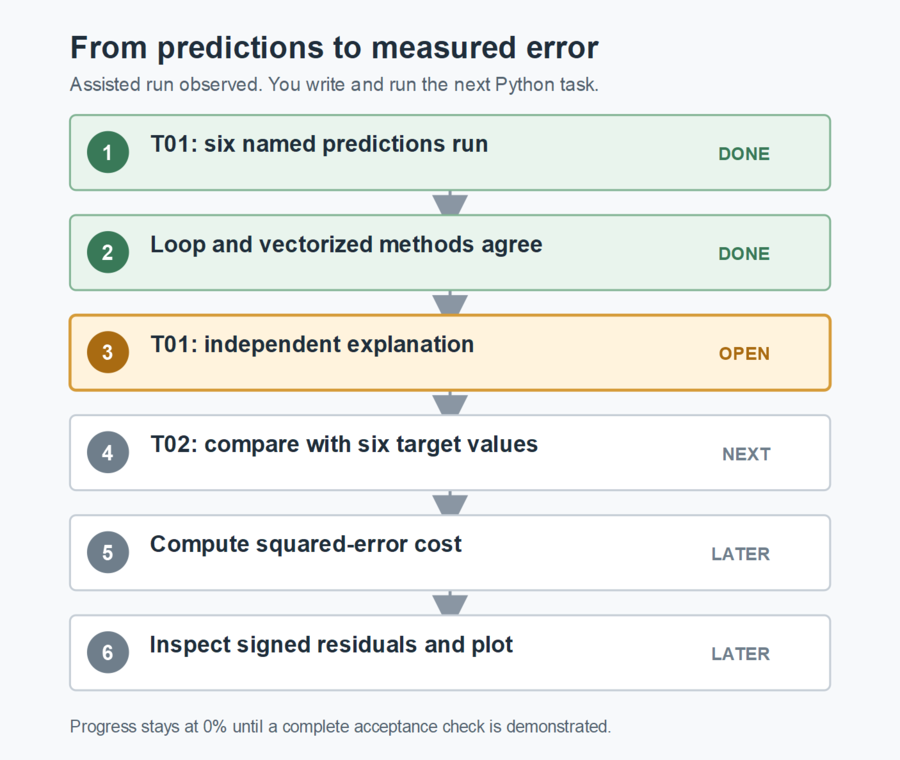
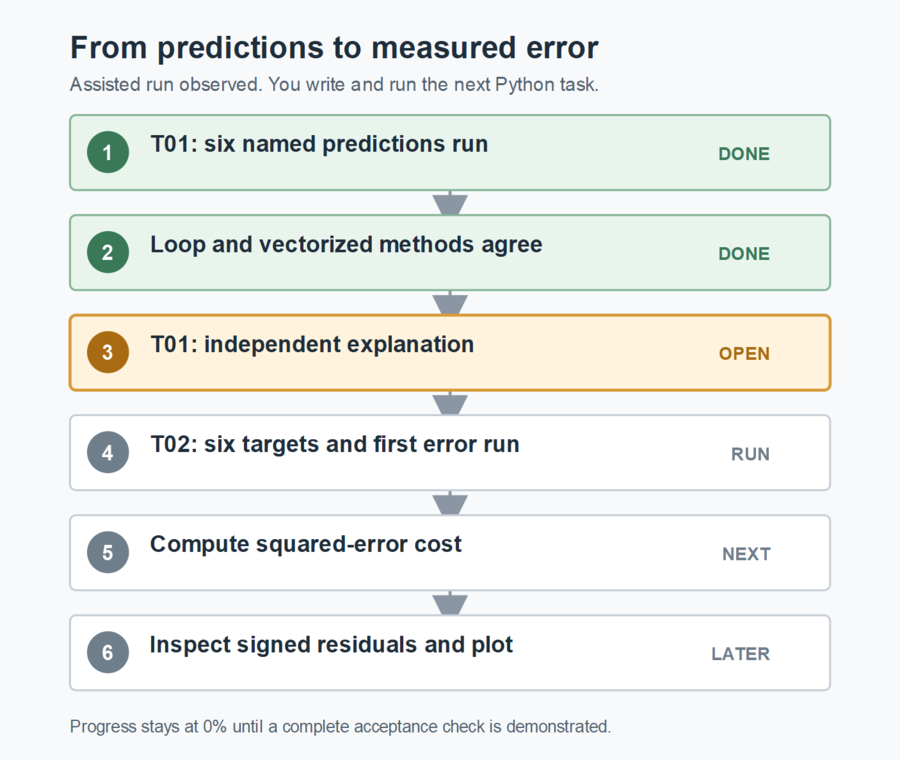
Record first cost and residual checkpoint

Changed region(s): [[0.2178, 0.575, 0.5911, 0.6053], [0.7778, 0.6961, 0.8711, 0.7566], [0.8089, 0.575, 0.8711, 0.6053]]

diff --git a/00_CURRENT_CONTEXT.md b/00_CURRENT_CONTEXT.md
@@ -14,17 +14,17 @@ This is the compact mentor resumption note for `D:\ML-project`. The learner work
 
 - Project: AI Capital Cycle Quantamental Research Engine.
 - Public repository: [Shreyash3007/ai-capital-cycle-quantamental-research](https://github.com/Shreyash3007/ai-capital-cycle-quantamental-research).
-- Publication state: earlier prediction runs and the teaching-first plan are on public `main`; the learner's newer named-output T01 script remains local and uncommitted. This checkpoint records the T02 teaching setup separately from that learner code.
+- Publication state: the T02 teaching setup is on public `main`; learner-authored T01 named output remains local and uncommitted. The T02 first-error code is recorded in this checkpoint without claiming mastery.
 - Mentor Mode: active; follow [MENTOR_MODE.md](MENTOR_MODE.md).
 - Phase: P00, C1W2 first-principles valuation engine.
 - Goal: [ML-G01 - C1W2 Valuation Stretch Foundation](Goals/ML-G01%20-%20C1W2%20Valuation%20Stretch%20Foundation/GOAL.md).
-- Active teaching task: [ML-G01-T02 - Cost and Residuals](Goals/ML-G01%20-%20C1W2%20Valuation%20Stretch%20Foundation/T02%20-%20Cost%20and%20Residuals.md). The learner file is empty; no T02 run has been observed.
+- Active teaching task: [ML-G01-T02 - Cost and Residuals](Goals/ML-G01%20-%20C1W2%20Valuation%20Stretch%20Foundation/T02%20-%20Cost%20and%20Residuals.md). The learner's first-row error, squared error, and residual have run; see [the T02 session](Journey/2026-09-29-ML-G01-T02.md). Full cost is next.
 - Earlier open task: [ML-G01-T01 - Vectorized Prediction](Goals/ML-G01%20-%20C1W2%20Valuation%20Stretch%20Foundation/T01%20-%20Vectorized%20Prediction.md). The saved script produced six named predictions and `Methods agree: True`; independent explanation and transfer remain open. Details are in [the T01 session](Journey/2026-09-28-ML-G01-T01.md).
 - Learner lesson and next-action page: [LEARNING_MANUAL.md](LEARNING_MANUAL.md). Keep its current step and diagram aligned with this note and the progress ledger.
 - Progress: T01 0%, T02 0%, phase 0%, overall 0% because no full explained acceptance check is closed; canonical ledger: [PROGRESS.md](PROGRESS.md).
 - Assistance debt: T01 functions and guard received exact first-pass teaching; an independent transfer is required before T01 closes.
 - Course coverage: Machine Learning Specialization C1W1 and C1W2 completed, learner-reported. C1W3 has not been confirmed. P00 uses C1W1 prediction, cost, and gradient descent as well as C1W2 methods. Later methods may be introduced early with a first-principles explanation, a bounded task, and a learner understanding check; this does not mark a course week or project capability complete.
-- Next action: teach the first T02 cost/residual step using an unrelated delivery-time example, then give exact initial array lines in chat for the learner to type into `02_cost_and_residuals.py`. Ask for the array shapes and one AstraCompute hand error, squared error, and signed residual before proceeding to the cost function. T03 gradients and a cost curve follow T02. Do not silently write assignment code.
+- Next action: ask for the AstraCompute hand explanation and teach the full C1W1 cost on an unrelated delivery-time example. Give exact first-pass shape-checked cost-function lines in chat for the learner to type into `02_cost_and_residuals.py`; have them print the six-row cost and named residual table, then inspect the run. A changed target, length mismatch, plot, and independent transfer follow. T03 gradients and a cost curve follow T02. Do not silently write assignment code.
 
 ## Current research target
 
@@ -77,4 +77,4 @@ The cross-phase [software engineering path](ENGINEERING_LEARNING_PATH.md) now in
 
 ## Evidence state
 
-The learner's guarded loop and vectorized functions produced the same six named values in the saved script, including AstraCompute `2.6870000000000003` (ordinary floating-point rounding), and `Methods agree: True`. Changed-input and intentional shape-failure runs were also observed. This remains assisted T01 evidence with independent transfer and interpretation open. T02 has no learner implementation or execution yet. After each meaningful learner attempt, update the task and progress record, then refresh this note last.
+The learner's guarded loop and vectorized functions produced the same six named values in the saved script, including AstraCompute `2.6870000000000003` (ordinary floating-point rounding), and `Methods agree: True`. Changed-input and intentional shape-failure runs were also observed. This remains assisted T01 evidence with independent transfer and interpretation open. T02's saved arrays both have shape `(6,)`; the first error `-0.113`, squared error `0.012769`, and residual `+0.113` reran correctly. The learner has not yet supplied a hand explanation or full cost. After each meaningful learner attempt, update the task and progress record, then refresh this note last.

diff --git a/PROGRESS.md b/PROGRESS.md
@@ -13,7 +13,7 @@ Active phase: P00 - C1W2 first-principles valuation engine
 Active goal: ML-G01
 Active teaching task: ML-G01-T02 - Cost and residuals
 Open earlier task: ML-G01-T01 - Vectorized prediction
-Evidence state: T01 ASSISTED RUN OBSERVED; T01 EXPLANATION AND TRANSFER PENDING; T02 NOT STARTED
+Evidence state: T01 ASSISTED RUN OBSERVED; T01 EXPLANATION AND TRANSFER PENDING; T02 FIRST ERROR RUN OBSERVED
 ```
 
 ## Progress summary
@@ -24,7 +24,7 @@ Phase P00        [--------------------]   0%
 Overall project  [--------------------]   0%
 ```
 
-The learner's guarded loop and vectorized prediction functions agree on all six named companies. The mentor reran the saved script and observed `Methods agree: True` with predictions `[2.687, 2.376, 2.955, 1.973, 2.004, 2.032]` (the first printed with ordinary floating-point rounding). A changed-input run and intentional four-weight failure were also observed. This was an assisted first pass; independent transfer and explanation remain open, so T01 earns no completed check yet. T02 teaching is open for pace; its learner file has no assignment code yet.
+The learner's guarded loop and vectorized prediction functions agree on all six named companies. The mentor reran the saved script and observed `Methods agree: True` with predictions `[2.687, 2.376, 2.955, 1.973, 2.004, 2.032]` (the first printed with ordinary floating-point rounding). A changed-input run and intentional four-weight failure were also observed. This was an assisted first pass; independent transfer and explanation remain open, so T01 earns no completed check yet. In T02, the learner's two arrays and AstraCompute error, squared error, and residual ran correctly. The hand explanation and full cost are not yet observed.
 
 The [software engineering path](ENGINEERING_LEARNING_PATH.md) is planned across these phases, from Python file structure through SQL, APIs, frontend work, and system design. It earns no separate completion credit from documentation; each phase will require observed engineering evidence at its own gate.
 
@@ -62,7 +62,7 @@ Overall completion is the sum of each phase weight multiplied by its evidence-ba
 | Task | Weight inside P00 | State | Completion | Evidence |
 |---|---:|---|---:|---|
 | ML-G01-T01 - Loop and vectorized prediction | 15% | open transfer | 0% | [named run; explanation pending](Journey/2026-09-28-ML-G01-T01.md) |
-| ML-G01-T02 - Cost function and residual meaning | 15% | ready for teaching | 0% | [task brief](Goals/ML-G01%20-%20C1W2%20Valuation%20Stretch%20Foundation/T02%20-%20Cost%20and%20Residuals.md); no learner run |
+| ML-G01-T02 - Cost function and residual meaning | 15% | in progress | 0% | [first error run](Journey/2026-09-29-ML-G01-T02.md); full cost and explanation open |
 | ML-G01-T03 - Gradients and batch gradient descent | 20% | planned | 0% | planned |
 | ML-G01-T04 - Feature scaling and convergence | 15% | planned | 0% | planned |
 | ML-G01-T05 - Feature engineering and nonlinear terms | 15% | planned | 0% | planned |
@@ -96,4 +96,4 @@ If T01 reaches 100%, P00 gains 15 percentage points and the overall project gain
 
 ## Next milestone
 
-Begin T02 with the two frozen arrays, their shapes, and one hand-calculated error, squared error, and residual. Continue through cost, changed target, and a residual plot. Return to T01 for an independent transfer and short defense before closing it; neither task has earned mastery credit yet.
+The frozen arrays and first error have run. Ask for the AstraCompute hand explanation, then complete a shape-checked cost function and named residual table. Continue through a changed target, failure case, and residual plot. Return to T01 for independent transfer and a short defense before closing it; neither task has earned mastery credit yet.

diff --git a/LEARNING_MANUAL.md b/LEARNING_MANUAL.md
@@ -10,8 +10,8 @@ This is the one document to read and work from. It grows as you build the projec
 | Project | P00, first-principles valuation-stretch foundation |
 | Active task | ML-G01-T02: cost and residuals; T01 independent transfer remains open |
 | Correct so far | T01 guarded loop and vectorized functions agree on all six named company predictions; changed-input and shape-failure runs observed |
-| Still to demonstrate | T01 independent explanation; T02 hand error, cost, signed residuals, changed-target run, and plot |
-| Code | T01 named-output script runs; T02 learner file is empty and ready for your code |
+| Still to demonstrate | T01 independent explanation; T02 hand explanation, full cost, named residuals, changed-target run, and plot |
+| Code | T01 named-output script runs; T02 first-row error calculation now runs |
 | Evidence-backed progress | T01 0%, T02 0%, P00 0%, overall 0%; successful assisted runs are not independent mastery |
 
 ![Current learning flow from prediction to cost and residuals](Visuals/current_lesson_flow.png)
@@ -50,7 +50,9 @@ Use [02_cost_and_residuals.py](Projects/AI%20Capital%20Cycle%20Quantamental%20Re
 
 ## Do this now
 
-First, enter the two arrays and print their shapes. Before running, calculate AstraCompute's error (`prediction - observed`), squared error, and signed residual (`observed - prediction`) by hand. Then run the file and compare. The mentor will teach every unfamiliar Python line using the delivery example first. Once this checkpoint runs, write the cost function, test a changed target and a mismatched length, then make and inspect a labeled residual plot. You do not need to reopen other documents to follow the lesson.
+The two arrays now run with shape `(6,)`. Your script prints AstraCompute's error `-0.11299999999999999`, squared error `0.012768999999999997`, and signed residual `0.11299999999999999`. Those are `-0.113`, `0.012769`, and `+0.113` at useful precision. Explain this first row by hand in your own words; the code run alone does not show the hand check.
+
+**Next work block:** write a reusable, shape-checked cost function for all six rows; print its result and a company-name residual table. The mentor will first show a different delivery-time example and explain the Python lines. Then change one observed target, predict the direction of its residual and cost change, run it, and restore the frozen input. After that, test a mismatched length and make a labeled residual plot. You do not need to reopen other documents to follow this lesson.
 
 T01's named output is a valid assisted run. Its explanation and independent transfer remain open, but they do not stop us from learning T02. Task credit follows demonstrated understanding, not how many scripts have been typed.
 

diff --git a/JOURNEY.md b/JOURNEY.md
@@ -27,6 +27,7 @@ This is the chronological record of decisions, attempts, evidence, and changes i
 | 2026-09-29 | Learner clarified that new concepts need exact, line-by-line teaching before independent coding. Mentor Mode now records first-pass code as assisted and requires a later independent variation. The learner has started an incomplete `vector_pred` definition; the [manual](LEARNING_MANUAL.md) teaches its first body line. | Teaching preference updated; no new capability credit. |
 | 2026-09-29 | [T01 function teaching pass](Journey/2026-09-28-ML-G01-T01.md): learner typed guarded vectorized and loop functions; both return the original six predictions. The manual now explains why this task precedes cost and gradient descent. | Assisted function run observed; independent transfer pending. |
 | 2026-09-29 | [T01 named-output checkpoint](Journey/2026-09-28-ML-G01-T01.md): saved script reran with six company names and `Methods agree: True`; T02 cost and residuals opened for teaching. | Assisted T01 run; T02 has no learner run yet. |
+| 2026-09-29 | [T02 first-error checkpoint](Journey/2026-09-29-ML-G01-T02.md): learner's saved arrays both have shape `(6,)`; AstraCompute error, squared error, and residual reran correctly. | Assisted first-row arithmetic; hand explanation and full cost still open. |
 
 The setup documents were prepared with mentor assistance. They are project planning, not learner-authored model code or proof of mastery.
 

diff --git a/Journey/2026-09-29-ML-G01-T02.md b/Journey/2026-09-29-ML-G01-T02.md
@@ -1,0 +1,12 @@
+# ML-G01-T02 first error checkpoint: 2026-09-29
+
+## Observed
+
+- The learner typed six frozen predictions and six synthetic observed log multiples into [the T02 script](../Projects/AI%20Capital%20Cycle%20Quantamental%20Research%20Engine/src/02_cost_and_residuals.py). This followed exact first-pass teaching lines, so it is assisted evidence.
+- Mentor reran `python "Projects/AI Capital Cycle Quantamental Research Engine/src/02_cost_and_residuals.py"` from `D:\ML-project`. Both array shapes were `(6,)`. AstraCompute's prediction error printed `-0.11299999999999999`, squared error `0.012768999999999997`, and residual `0.11299999999999999`.
+- Rounded to three or six decimal places, these are `-0.113`, `0.012769`, and `+0.113`. The extra digits are floating-point representation, not a different economic result.
+
+## Meaning and next action
+
+- The code calculates `predicted - observed` for error and `observed - predicted` for residual. The run establishes the first-row arithmetic and row counts; the learner has not yet supplied the requested hand calculation or explained the residual sign in their own words.
+- T02 remains at 0%. Next, teach the C1W1 six-row cost on an unrelated example, then have the learner type a shape-checked cost function, run the frozen case, and print a named residual table. A changed target, failure case, independent transfer, and plot remain open.

diff --git a/Goals/ML-G01 - C1W2 Valuation Stretch Foundation/T02 - Cost and Residuals.md b/Goals/ML-G01 - C1W2 Valuation Stretch Foundation/T02 - Cost and Residuals.md
@@ -2,8 +2,8 @@
 type: task
 id: ML-G01-T02
 goal: ML-G01
-status: ready-for-teaching
-evidence_status: planned
+status: in-progress
+evidence_status: assisted-first-error-run
 updated: 2026-09-29
 ---
 
@@ -58,3 +58,7 @@ Use the empty `../../Projects/AI Capital Cycle Quantamental Research Engine/src/
 - The residual sign, cost meaning, and limitation are explained in the learner's words.
 - The saved plot is inspected and traceable to the executed code and frozen inputs.
 - Assistance and a later independent transfer case are recorded before closing T02.
+
+## Current checkpoint
+
+Both frozen arrays and the first-row error, squared error, and residual were typed by the learner and rerun by the mentor. This was an assisted first pass; the learner's hand explanation, full cost, changed-target case, failure case, plot, and independent transfer remain open. See [the session record](../../Journey/2026-09-29-ML-G01-T02.md).

diff --git a/Projects/AI Capital Cycle Quantamental Research Engine/src/README.md b/Projects/AI Capital Cycle Quantamental Research Engine/src/README.md
@@ -11,4 +11,4 @@ This directory contains learner-authored numbered scripts.
 - Record substantial assistance in the task evidence.
 - Do not add API keys, tokens, or provider credentials.
 
-`01_vectorized_prediction.py` holds the assisted T01 prediction implementation. `02_cost_and_residuals.py` is the empty learner-owned file for T02; the mentor supplies teaching examples and fixture values, and the learner types its implementation.
+`01_vectorized_prediction.py` holds the assisted T01 prediction implementation. `02_cost_and_residuals.py` is the learner-owned T02 file; its arrays and first-row error calculation run. The mentor supplies teaching examples and fixture values, and the learner types the remaining implementation.
